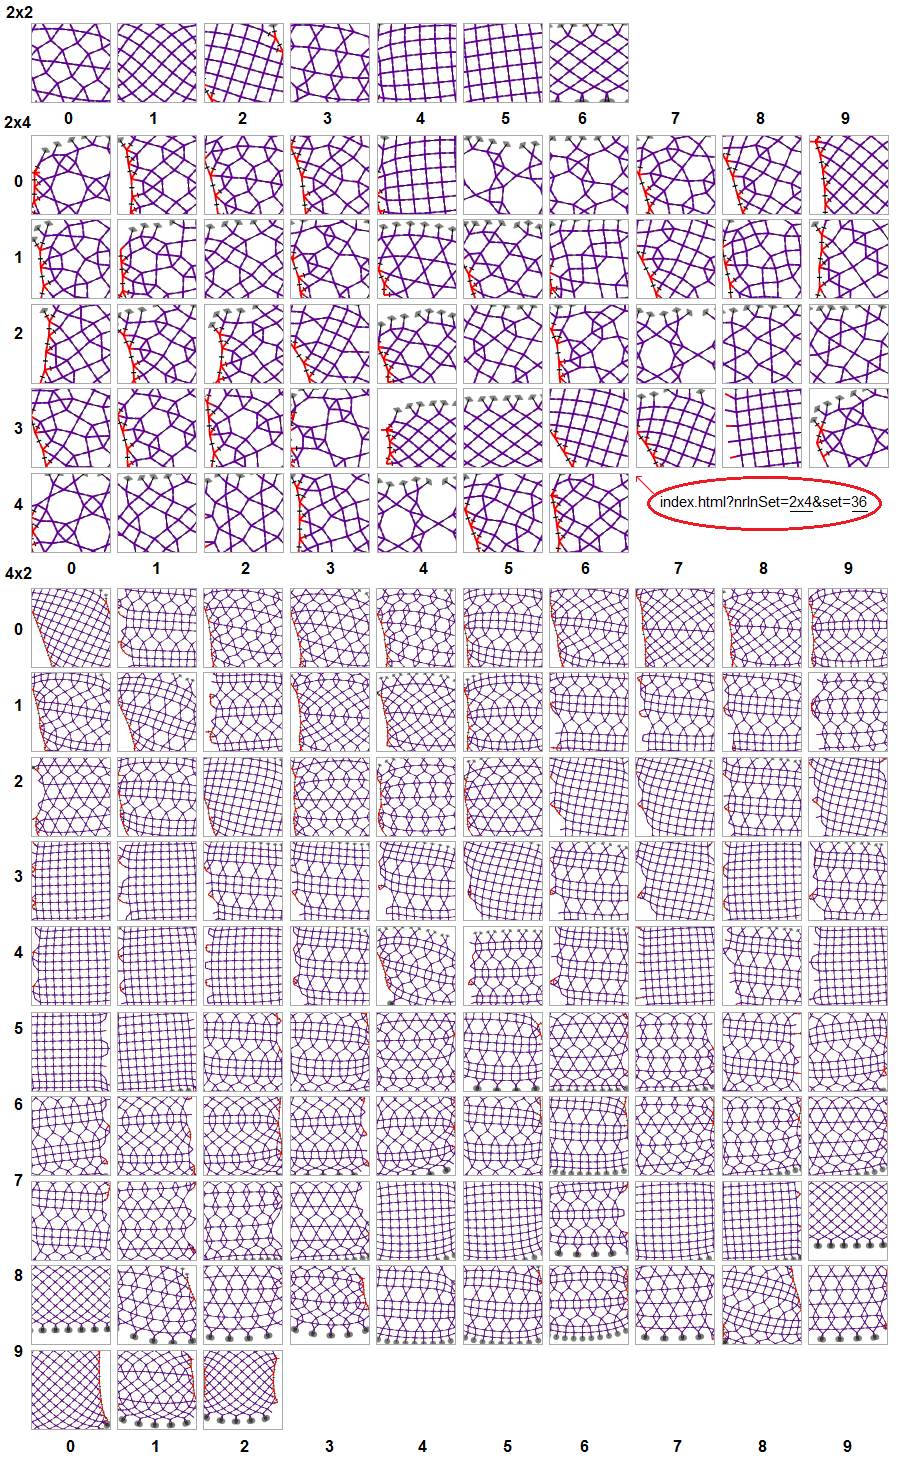
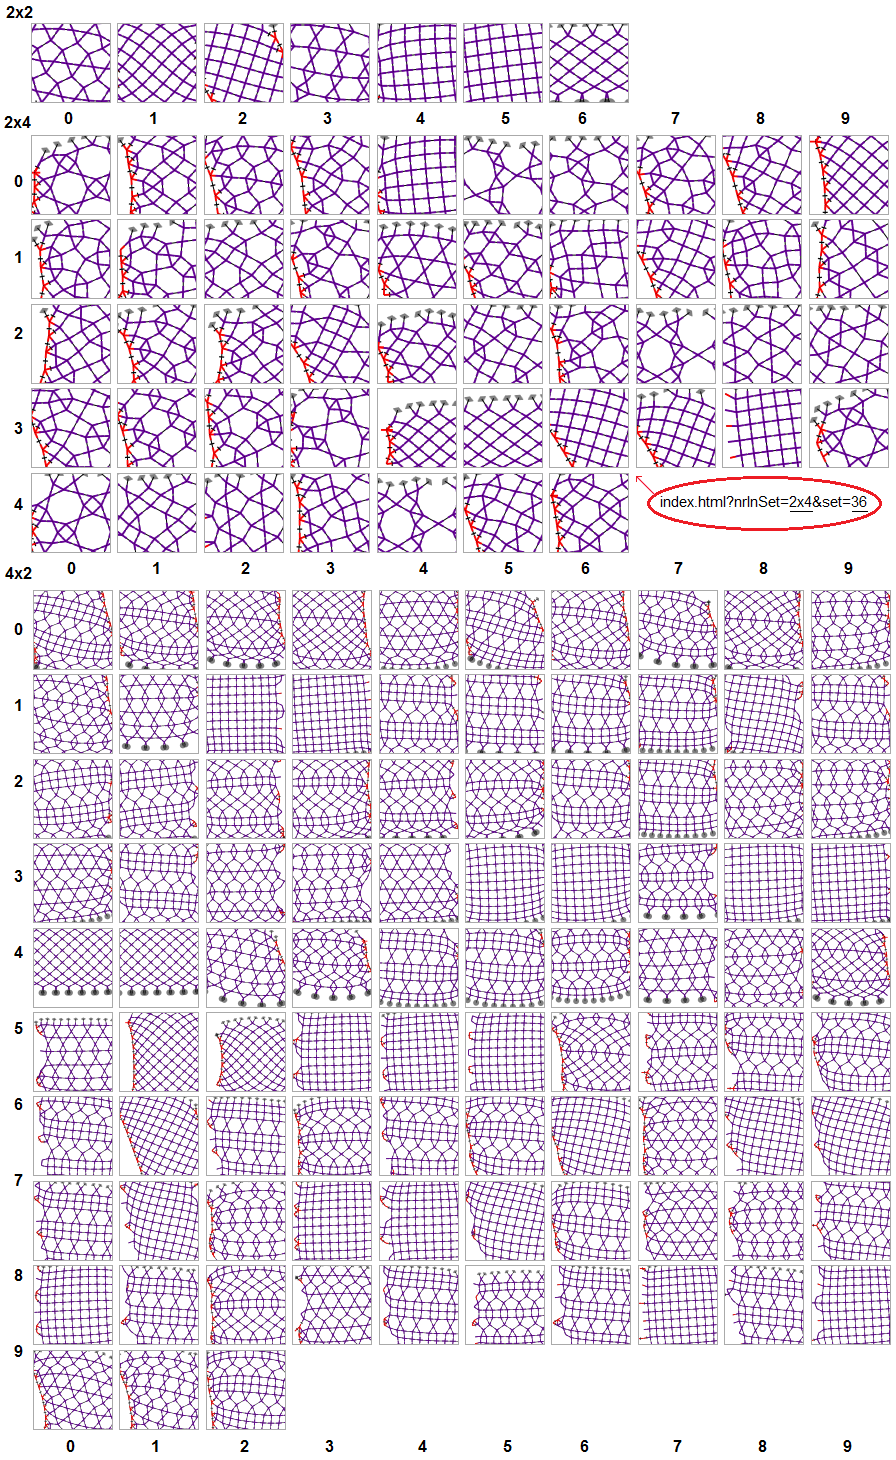
reorderd 4x2 patterns: topologically duplicates to the back

diff --git a/js/matrix-graphs.js b/js/matrix-graphs.js
@@ -19,7 +19,7 @@ F(G(),t(bc)),n=cc((new dc).cc(n)),m=(new ec).Bb(k).l();n.ia(e.a.length+m|0);n.Aa
 $b(ac(D(),(new B).q([(new E).Ca(e,c),(new E).Ca(h,b)]),F(G(),t(bc))),b,c);f=f.w();e=h;continue b}if(null!==g){e=ub(vb((new B).q(["Missed footside case: total\x3d",", in\x3d",", cell\x3d(",", ",")"])),(new B).q([g.Lb(),g.hc(),h,b]));fc(gc().Eg.De.qb(),e);f=f.w();e=h;continue b}throw(new H).p(g);}break a}}function Xb(a,b,c){return(new E).Ca(a.Pi.a[b].a[c],a.qc.a[b].a[c].a.length)}function $b(a,b,c){return b>c||2>a.a.length?a:ac(D(),(new B).q([a.a[1],a.a[0]]),F(G(),t(bc)))}
 function hc(a,b,c,e){var f=a.qc.a[b].a[c];if(1<f.a.length){a=a.qc.a[b];b=f.a[0].hc();var g=f.a[1].hc();e=e===b&&e===g?ac(D(),J(),F(G(),t(bc))):e===b?ac(D(),(new B).q([f.a[1]]),F(G(),t(bc))):e===g?ac(D(),(new B).q([f.a[0]]),F(G(),t(bc))):f;a.a[c]=e}}Qb.prototype.b=new v({Sm:0},!1,"dibl.FootsideBuilder",{Sm:1,d:1});function ic(){this.bl=this.Rk=null}ic.prototype=new x;
 ic.prototype.c=function(){jc=this;K();var a=ac(D(),(new B).q("4368 535- 6666 684- 8811 6622 4477".split(" ")),F(G(),t(ma))),a=(new C).i("2x2",a),b=ac(D(),(new B).q("5831-4-7 43735-53 43436868 43535863 88881111 44881748 48405887 46-16868 48635663 53535353 43126-78 588-14-2 48415377 46836-48 6868-4-4 -4866-48 688814-1 46636668 43116888 48322483 43225-73 46-26-58 48-25-53 466-6686 586--4-5 44667781 48835-43 48154-77 48487171 84647712 46316688 46833468 46323488 14838-48 5-5--5-5 44447777 66666666 566-66-5 66662222 4830--77 -43734-7 46419177 64647272 43215883 4804-777 563166-7 563234-7".split(" ")),
-F(G(),t(ma))),b=(new C).i("2x4",b),c=ac(D(),(new B).q("66666666 43680099 43683486 4368-468 43684-86 43681188 43536866 43535368 43535-86 43532188 435-8666 6666-468 435-1099 435-3586 435--568 435-1288 43980088 43981166 43216688 4321-498 43214-89 43218866 66661188 43217368 43217-86 4321-768 66666622 66668811 66667-12 66669900 66662222 66009922 66-46822 66-40199 66-49811 66886611 6688-421 66888800 66881122 66887-10 66882211 66118822 66119911 667-8611 66-45-86 667--521 667-8900 66990022 6699-401 66991111 66992200 66226622 43686622 43688811 43687321 66-42188 43687-12 4368-721 43689900 43682222 43019922 43536822 43539811 435-8622 435-8911 43986611 6611-498 43983412 4398-421 43984-12 43988800 43987301 43987-10 4398-701 88881111 88118811 887--501 66112288 88991100 44447777 44774477 68-4684- 68-4217- 684--55- 6888114- 6811884- 6811-75- 687-107- 43686666 687-124- 5353535- 535-864- 535--55-".split(" ")),
+F(G(),t(ma))),b=(new C).i("2x4",b),c=ac(D(),(new B).q("43686666 435-8666 435--568 43535368 4321-768 6666-468 43536866 66-45-86 435-3586 4321-498 43683486 68-4217- 66992200 66226622 43680099 66-40199 66-49811 6688-421 66888800 43686622 43682222 43019922 43536822 43539811 435-8622 435-8911 43986611 6611-498 43983412 4398-421 43984-12 43988800 43987301 43987-10 4398-701 88881111 88118811 887--501 66112288 88991100 44447777 44774477 68-4684- 684--55- 6888114- 6811884- 6811-75- 687-107- 43687321 535-864- 687-124- 5353535- 535--55- 66882211 66118822 66119911 43535-86 435-1099 43980088 43688811 43981166 66666666 66-46822 435-1288 43216688 43218866 66661188 43217368 66666622 66668811 66667-12 66669900 43217-86 66662222 66009922 66886611 66-42188 43687-12 4368-721 43689900 66881122 66887-10 43532188 43214-89 667-8611 667--521 667-8900 66990022 6699-401 66991111 4368-468 43684-86 43681188".split(" ")),
 F(G(),t(ma))),a=[a,b,(new C).i("4x2",c)],b=kc(new L,M());for(var c=0,e=a.length|0;c<e;)nc(b,a[c]),c=1+c|0;this.Rk=b.ja;K();var a=(new oc).Wa(48),b=pc(qc(),(new B).q([(new E).Ca(-1,1),(new E).Ca(0,1)])),a=(new C).i(a,b),b=(new oc).Wa(49),c=pc(qc(),(new B).q([(new E).Ca(-1,0),(new E).Ca(0,1)])),b=(new C).i(b,c),c=(new oc).Wa(50),e=pc(qc(),(new B).q([(new E).Ca(-1,-1),(new E).Ca(0,1)])),c=(new C).i(c,e),e=(new oc).Wa(51),f=pc(qc(),(new B).q([(new E).Ca(0,-1),(new E).Ca(0,1)])),e=(new C).i(e,f),f=(new oc).Wa(52),
 g=pc(qc(),(new B).q([(new E).Ca(-1,0),(new E).Ca(-1,1)])),f=(new C).i(f,g),g=(new oc).Wa(53),h=pc(qc(),(new B).q([(new E).Ca(-1,-1),(new E).Ca(-1,1)])),g=(new C).i(g,h),h=(new oc).Wa(54),k=pc(qc(),(new B).q([(new E).Ca(0,-1),(new E).Ca(-1,1)])),h=(new C).i(h,k),k=(new oc).Wa(55),n=pc(qc(),(new B).q([(new E).Ca(-1,-1),(new E).Ca(-1,0)])),k=(new C).i(k,n),n=(new oc).Wa(56),m=pc(qc(),(new B).q([(new E).Ca(0,-1),(new E).Ca(-1,0)])),n=(new C).i(n,m),m=(new oc).Wa(57),q=pc(qc(),(new B).q([(new E).Ca(0,
 -1),(new E).Ca(-1,-1)])),m=(new C).i(m,q),q=(new oc).Wa(45),w=pc(qc(),J()),a=[a,b,c,e,f,g,h,k,n,m,(new C).i(q,w)],b=kc(new L,M());c=0;for(e=a.length|0;c<e;)nc(b,a[c]),c=1+c|0;this.bl=b.ja;return this};

diff --git a/thumbnails.html b/thumbnails.html
@@ -96,8 +96,5 @@
             another number of columns will fix the other side.
         </p>
     </fieldset>
-    <p>
-        N.B: Row and column count starts with zero.
-    </p>
     <div id="diagram"></div>
 </body>
